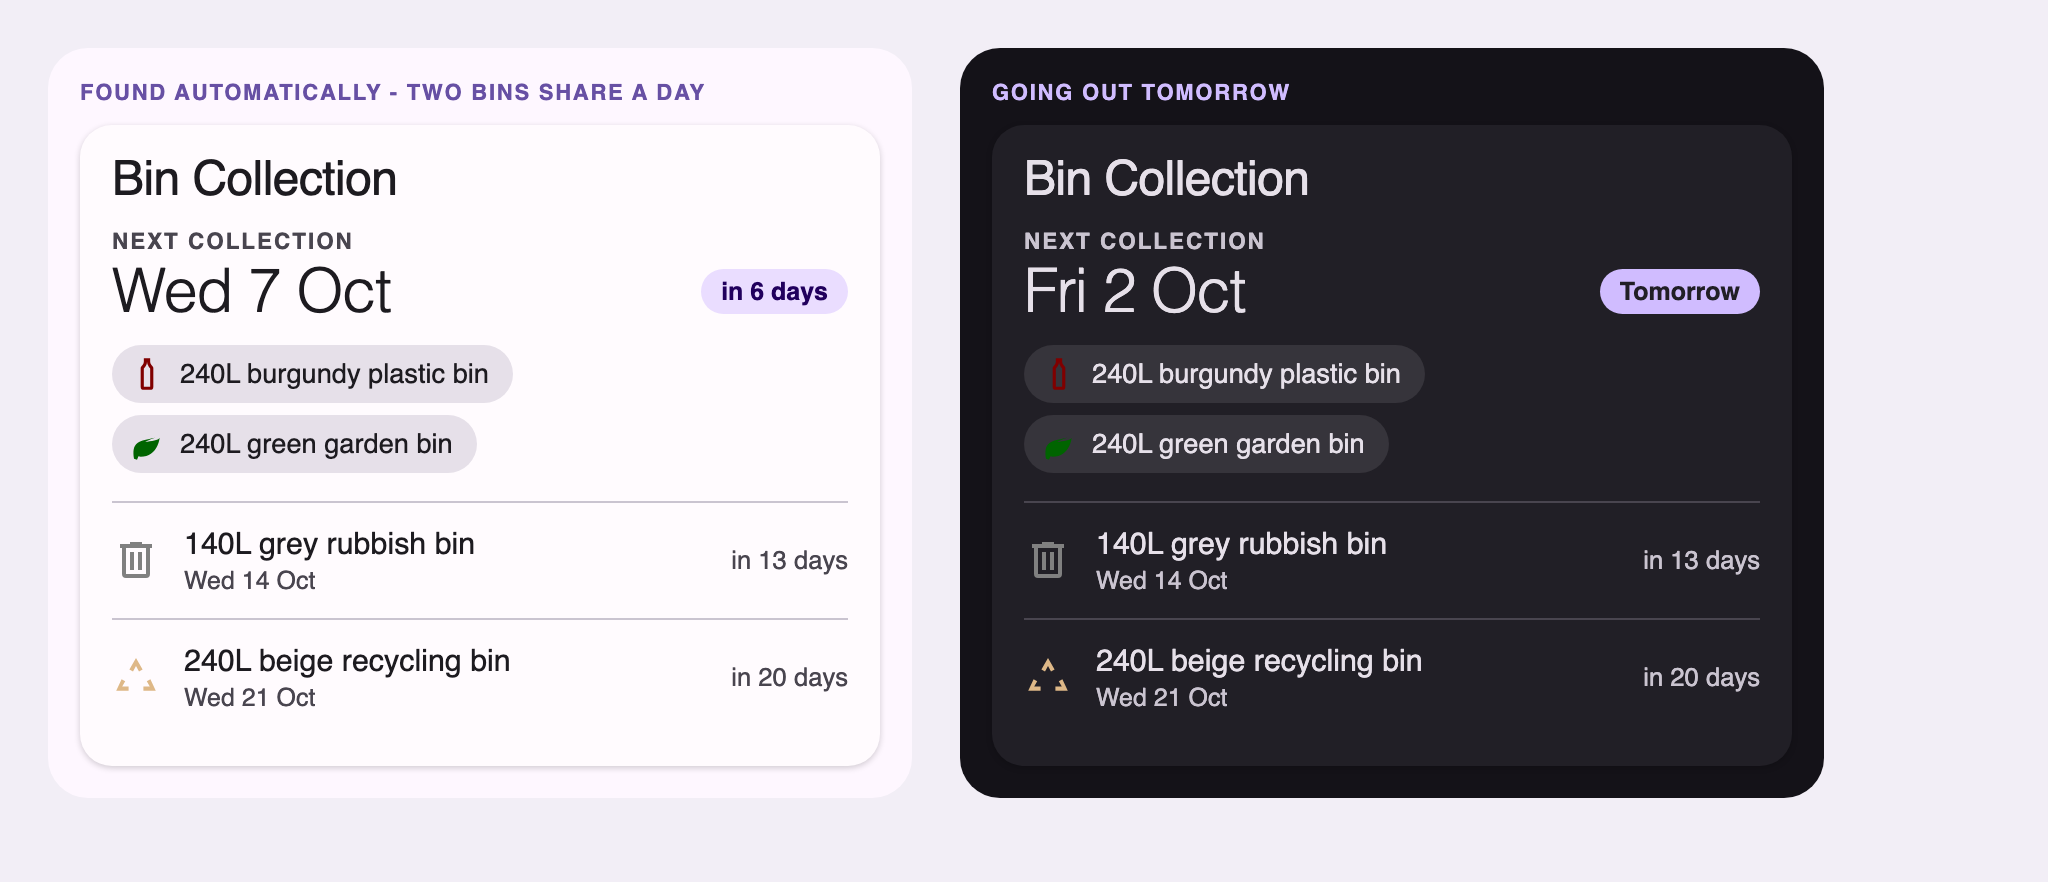
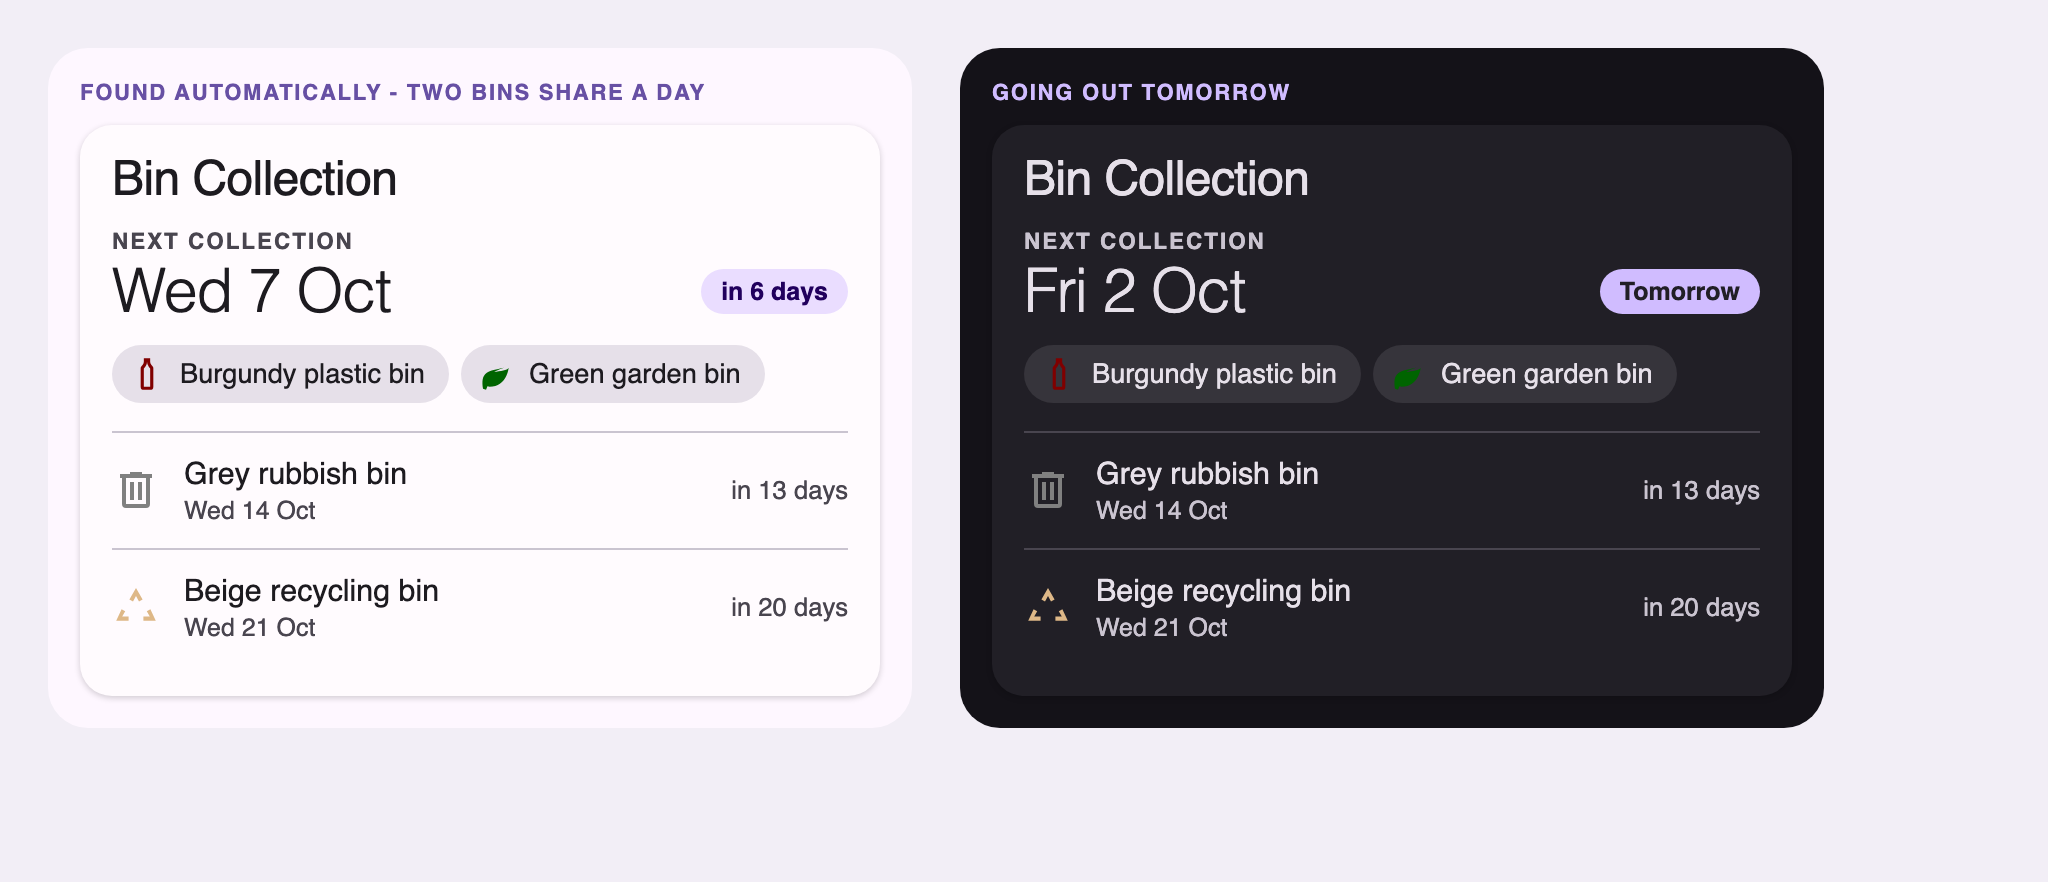
Trim the bin size and capitalise the tidied names
The council names a bin after its volume as well as its purpose, which is more
than a card needs: "Bins 240L green garden bin" now reads "Green garden bin".

Three steps run in order, each independently switchable: strip_prefix drops the
prefix shared by every bin, strip_size drops a leading 240L or 240 litre, and
label_case capitalises - sentence by default, title ("Green Garden Bin") or none
if preferred. The size strip only matches a leading volume and never returns an
empty string, so a bin known only by its size keeps that name.

An explicit `overrides` label skips all three and is used exactly as written,
since someone who typed a name meant it.

A side benefit: the shorter labels let both chips for a shared collection day
sit on one line.

374 assertions (129 wakeup, 115 room, 130 bins).

diff --git a/dist/wabit-cards.js b/dist/wabit-cards.js
@@ -10,7 +10,7 @@
  * theme the dashboard is using instead of imposing its own palette.
  */
 
-const VERSION = "1.6.0";
+const VERSION = "1.7.0";
 const REPO = "https://github.com/wabit/wabit-hacs-dashboard";
 
 console.info(
@@ -2403,6 +2403,25 @@ function commonWordPrefix(names) {
   return first.slice(0, i).join(" ");
 }
 
+/**
+ * Drops a leading volume from a bin's name: "240L green garden bin" is a
+ * garden bin whatever size it happens to be. Never returns an empty string.
+ */
+function stripBinSize(name) {
+  const out = String(name)
+    .replace(/^\s*\d+\s*(?:l|ltr|litres?|liters?)\b[\s.\-]*/i, "")
+    .trim();
+  return out || String(name).trim();
+}
+
+/** "green garden bin" -> "Green garden bin" (sentence) or "Green Garden Bin" (title). */
+function applyCase(name, mode) {
+  const s = String(name);
+  if (!s || mode === "none") return s;
+  if (mode === "title") return s.replace(/\b\p{Ll}/gu, (c) => c.toUpperCase());
+  return s.charAt(0).toUpperCase() + s.slice(1);
+}
+
 const DEFAULT_BINS = {
   green: { label: "Garden", color: "#3fa34d" },
   grey: { label: "General Waste", color: "#7a7f85" },
@@ -2599,6 +2618,8 @@ class WabitBinCollectionCard extends HTMLElement {
       entities: Array.isArray(cfg.entities) && cfg.entities.length ? cfg.entities : null,
       overrides: cfg.overrides && typeof cfg.overrides === "object" ? cfg.overrides : {},
       strip_prefix: cfg.strip_prefix !== false,
+      strip_size: cfg.strip_size !== false,
+      label_case: ["title", "none"].includes(cfg.label_case) ? cfg.label_case : "sentence",
       title: cfg.title === undefined ? "Bin Collection" : cfg.title,
       bins,
       show_hero: cfg.show_hero !== false,
@@ -2698,6 +2719,9 @@ class WabitBinCollectionCard extends HTMLElement {
         const rest = label.slice(prefix.length).trim();
         if (rest) label = rest;
       }
+      if (cfg.strip_size) label = stripBinSize(label);
+      // An explicit override is used exactly as written; only derived names are tidied.
+      label = applyCase(label, cfg.label_case);
       const date = parseDMY(a.next_collection);
       return {
         key: id,
@@ -2934,6 +2958,8 @@ const BIN_LABELS = {
   title: "Card title (leave empty for no header)",
   show_hero: "Show the next-collection panel",
   strip_prefix: "Trim the shared prefix off each bin's name",
+  strip_size: "Trim the bin size (240L) off each name",
+  label_case: "Capitalisation",
 };
 
 const BIN_SCHEMA = [
@@ -2942,6 +2968,20 @@ const BIN_SCHEMA = [
   { name: "title", selector: { text: {} } },
   { name: "show_hero", selector: { boolean: {} } },
   { name: "strip_prefix", selector: { boolean: {} } },
+  { name: "strip_size", selector: { boolean: {} } },
+  {
+    name: "label_case",
+    selector: {
+      select: {
+        mode: "dropdown",
+        options: [
+          { value: "sentence", label: "Green garden bin" },
+          { value: "title", label: "Green Garden Bin" },
+          { value: "none", label: "green garden bin" },
+        ],
+      },
+    },
+  },
 ];
 
 const BIN_EDITOR_STYLES = `
@@ -3100,6 +3140,10 @@ class WabitBinCollectionCardEditor extends HTMLElement {
       title: this._config.title === undefined ? "Bin Collection" : this._config.title,
       show_hero: this._config.show_hero !== false,
       strip_prefix: this._config.strip_prefix !== false,
+      strip_size: this._config.strip_size !== false,
+      label_case: ["title", "none"].includes(this._config.label_case)
+        ? this._config.label_case
+        : "sentence",
     };
     if (JSON.stringify(this._form.data) !== JSON.stringify(data)) this._form.data = data;
   }

diff --git a/README.md b/README.md
@@ -53,11 +53,28 @@ icon, so there is nothing to wire up.
 | `type` | string | **required** | `custom:wabit-bin-collection-card` |
 | `entities` | list | – | Specific bin sensors to show. Omit it and they are discovered. |
 | `overrides` | map | – | Per-sensor `{ label, color, icon }` tweaks, keyed by entity id. |
-| `strip_prefix` | boolean | `true` | Trim the prefix shared by every bin's name, so "Bins 240L green garden bin" shows as "240L green garden bin". |
+| `strip_prefix` | boolean | `true` | Trim the prefix shared by every bin's name. |
+| `strip_size` | boolean | `true` | Trim a leading size, so "240L green garden bin" shows as "green garden bin". |
+| `label_case` | `sentence` \| `title` \| `none` | `sentence` | How the tidied name is capitalised. |
 | `title` | string | `Bin Collection` | Card header. Set to `""` for no header. |
 | `show_hero` | boolean | `true` | The large next-collection panel. With it off, every collection becomes a row. |
 | `entity` | entity | – | **Older setups only.** One sensor carrying an object per bin. See below. |
 | `bins` | map | the four below | Labels and colours for `entity` mode only. |
+
+### Tidying the names
+
+The integration names a bin after whatever the council calls it, which is usually more
+than you want on a card. Three steps run in order, each of which can be turned off:
+
+```
+Bins 240L green garden bin     as the sensor reports it
+     240L green garden bin     strip_prefix - drops the prefix shared by every bin
+          green garden bin     strip_size   - drops a leading 240L / 240 litre
+          Green garden bin     label_case   - sentence (default), title, or none
+```
+
+`label_case: title` gives "Green Garden Bin" instead. An explicit `overrides` label is
+used exactly as written and skips all three.
 
 ### Renaming or recolouring a bin
 
